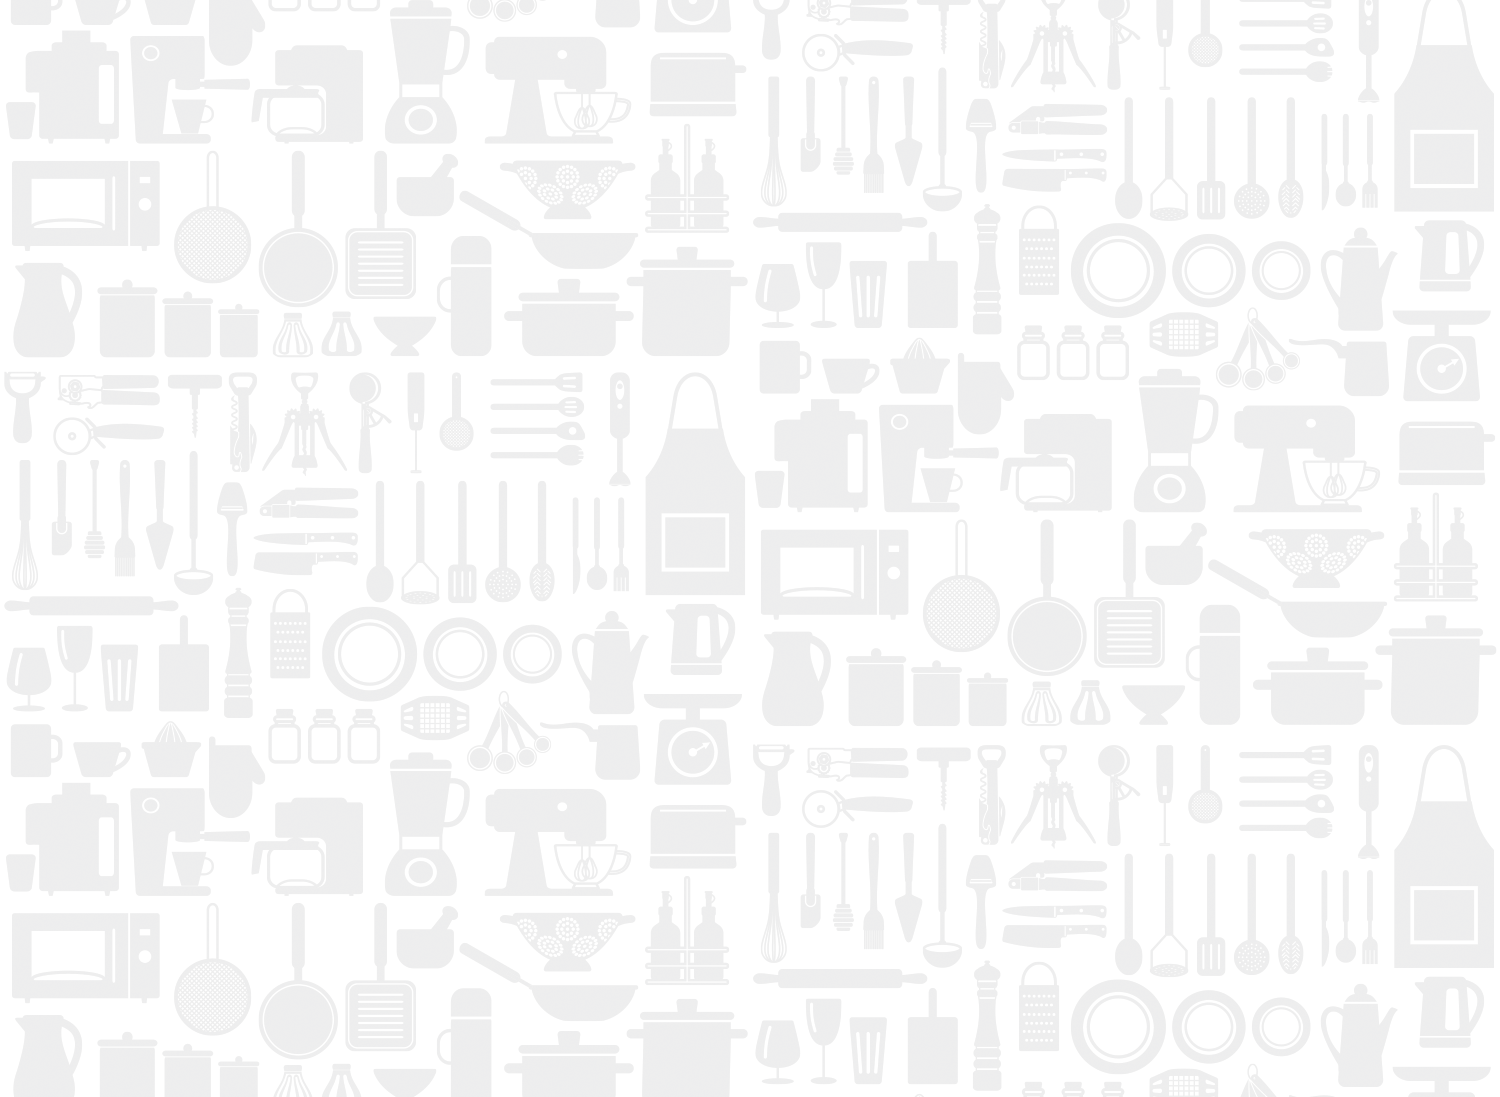
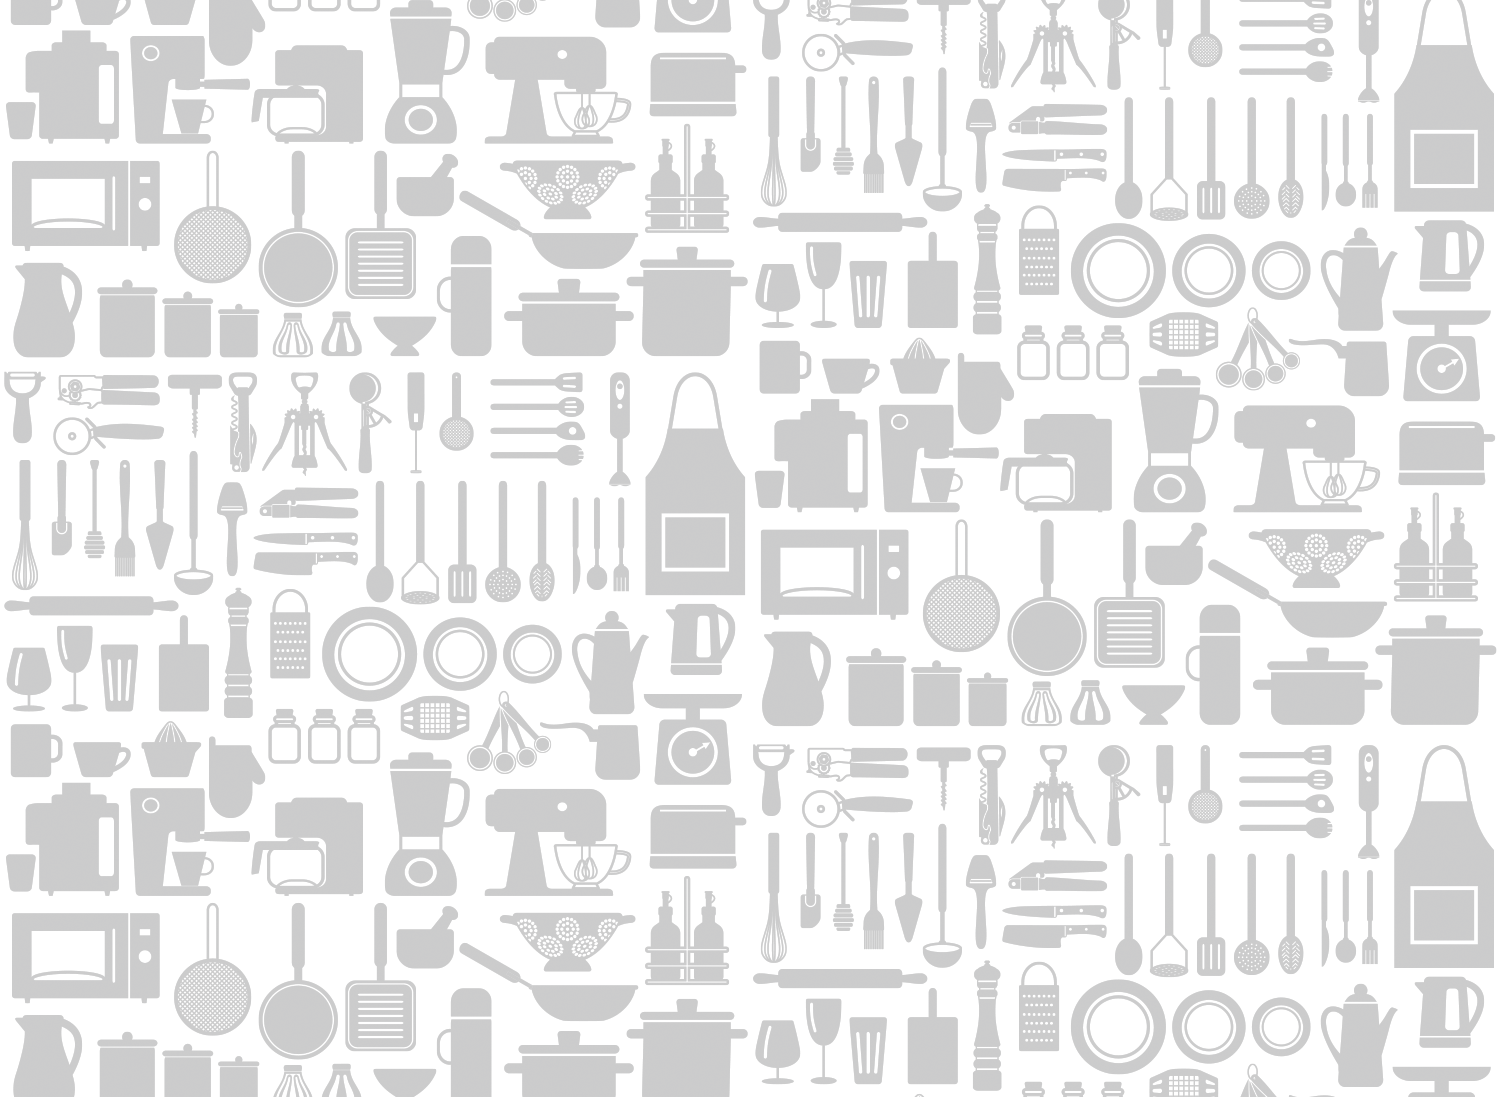
aesthetic upgrade

diff --git a/css/list-styles.css b/css/list-styles.css
@@ -2,9 +2,13 @@ body {
   margin: 0;
   padding: 0;
   border: 0;
-  background-color: #FFFFFF;
+  background-color: #B6B7B6;
+  background-image: url('../images/bkg.png');
+  background-repeat: no-repeat;
+  background-size: cover;
+  background-position: 0 15em;
     /* Typography Declarations */
-    color: #cccccc;
+    color: #CCCCCC;
     font-size: 1em;
     font-family: "Open Sans", "Helvetica Neue", sans-serif;
 }
@@ -214,15 +218,17 @@ a:link {
 .list-items {
 	padding: 2em 0 5em 0;
 	/* text-align: center; */
-	display: block;
 	background-color: #FFFFFF;
-	max-width: 35em;
+	background-size: cover;
+	min-height: 6em;
+	/*max-width: 35em;*/
 	margin-left: auto;
 	margin-right: auto;
 }
 
-.list-items .list {
+.list-items #list {
 	display: block;
+	max-width: 32em;
 	margin-bottom: 0.6em;
 	margin-left: auto;
 	margin-right: auto;
@@ -230,8 +236,7 @@ a:link {
 
 .footer {
 	padding: 2em 0;
-	background-color: #B6B7B6;
-	min-height: 3.5em;
+	/*background-color: #B6B7B6;*/
 	width: 100%;
 	/* max-width: 25em; */
 	margin-left: auto;

diff --git a/js/app.js b/js/app.js
@@ -1,8 +1,8 @@
 $(document).ready(function() {
 
  $('#add').on("click", function() {
-    console.log( 'I made the click work' );
-    alert('I made the click work');
+    console.log( 'clicking the + icon works' );
+    /* alert('I made the click work'); */
     var new_task = $('#add-items').val();
     $('#list ul').append('<li>'+new_task+'</li>');
     return false;
@@ -10,9 +10,12 @@ $(document).ready(function() {
 
  $('#add-items').keydown(function (e) {
  	if (e.keyCode == 13) {
- 	console.log( 'I made the enter work' );
-    alert('I made the enter work');
+ 		/* postItem(); */
+ 	console.log( 'keydown the enter key works' );
+    /* alert('I made the enter work'); */
  	}
  });
+
+/*$('#list').on('click', '.delete', function(e){e.preventDefault(); $(this).parent().remove()});*/
 
 });

diff --git a/index.html b/index.html
@@ -40,9 +40,6 @@
         		<button type="submit" id="checked-remove" name="checked-remove"></button>
     		</div>
     		-->
-		<!--<img class="list" src="images/checked-item.jpg"> 
-		<img class="list" src="images/list-item.jpg"> 
-		<img class="list" src="images/checked-item.jpg">  -->
 	</section>
 	<footer class="footer">
 	<img class="mercato-logo" src="images/mercato-logo.png"> 
